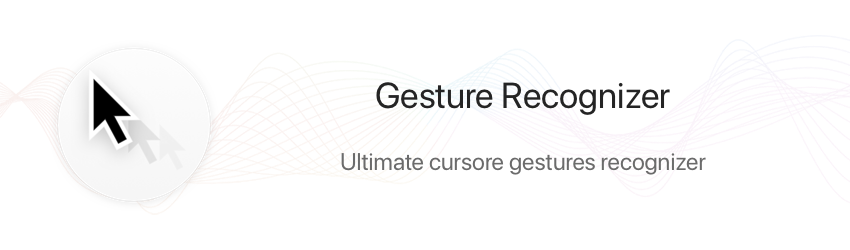
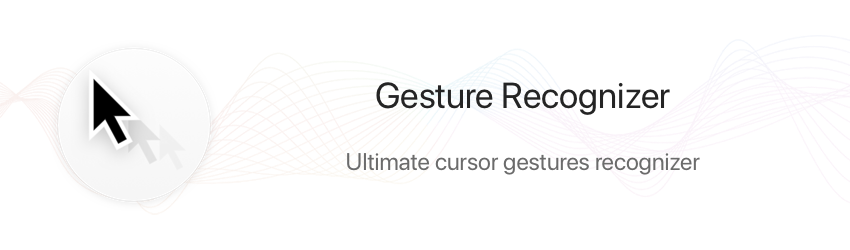
cursor(e)

Changed region(s): [[0.3976, 0.616, 0.8259, 0.7]]

diff --git a/Readme.md b/Readme.md
@@ -1,6 +1,6 @@
 ![Technogram: A new social network for IT specialists](https://raw.githubusercontent.com/jookovjook/gestures-recogniser/master/images/Art.png)
 
-Ultimate cursore gestures recogniser.
+Ultimate cursor gestures recogniser.
 
 - [Introduction](#introduction)
 - [Features](#features)
